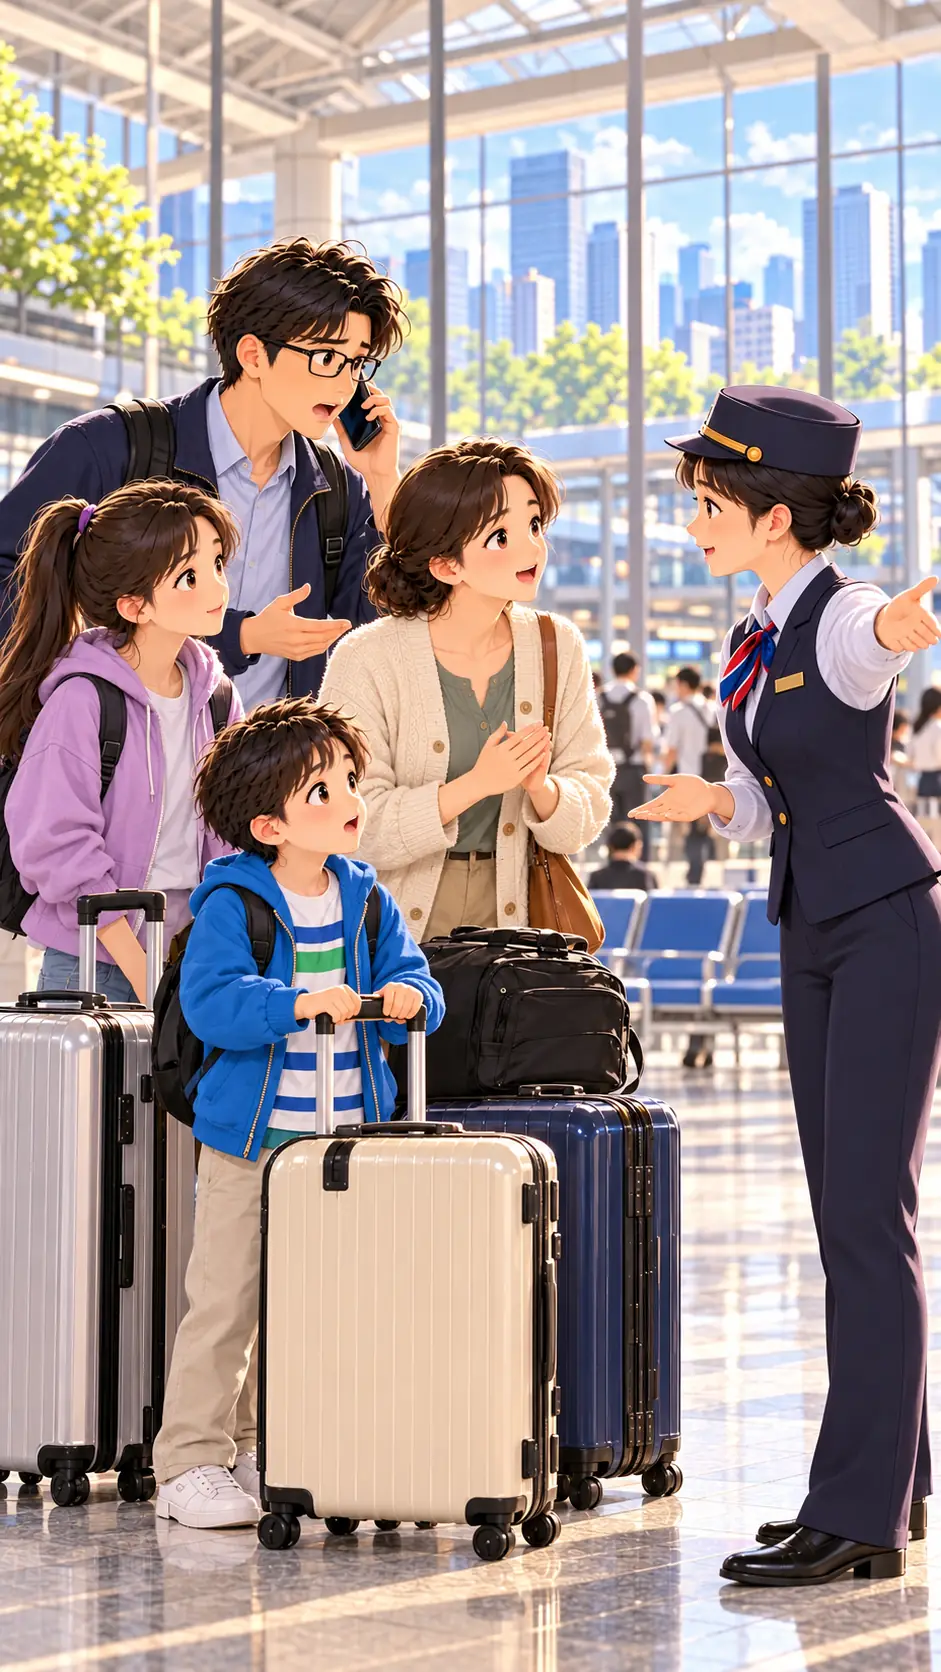
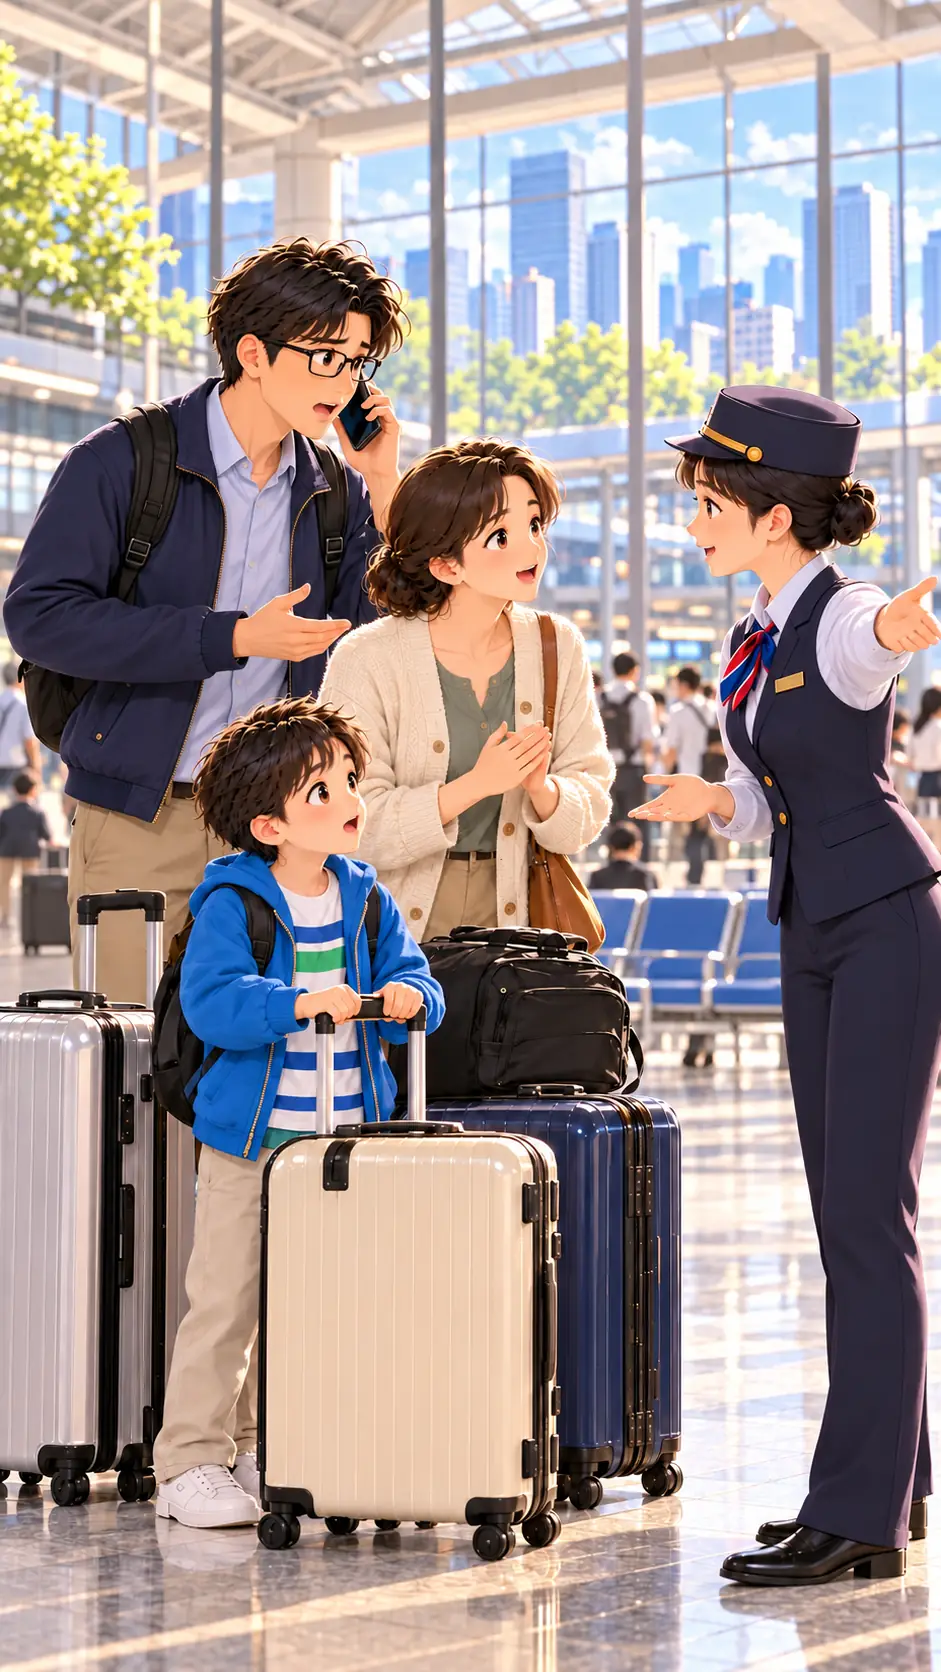
Enforce exact SC007 production cast and refresh image-bound mouth anchors

diff --git a/docs/dialogue_naturalization/STANDARD_TR.md b/docs/dialogue_naturalization/STANDARD_TR.md
@@ -95,4 +95,7 @@ SC005 güncellemesi: 6/300 metin revizyonu, 5/300 görselde adla ağız kalibras
 SC006 güncellemesi: 7/300 metin revizyonu, 6/300 görselde adla ağız kalibrasyonu. Şehir ilk görüş, eski arkadaşları özleme ve aile desteği doğal tepki zinciriyle yazıldı; SC005 oyuncak ve SC007 istasyon sürekliliği korundu. SC005 ses işi 37680079039 çalışmaya devam ediyor, SC006 ses metni sonraki mevcut hat paketinde üretilecek. Cihazda balon zamanlaması/dinleme henüz doğrulanmadı. APK başlatılmadı. Sıradaki: HSK1 SC007.
 
 
-SC007 güncellemesi: 8/300 metin revizyonu, 7/300 görselde adla ağız kalibrasyonu. İstasyon/nakliye telefon konuşması, gecikme, adres gönderme ve ailece taksi planı doğal tepki zinciriyle yazıldı. SC008 Li Chen karşılaşması ve SC009 adres sorunu önceden çözülmedi. Yutong konuşmayan refakatçi olarak görselde korundu. SC005 ses işi 37680079039 çalışıyor; SC006–SC007 sonraki mevcut hat paketinde üretilecek. Cihazda balon zamanlaması/dinleme henüz doğrulanmadı. APK başlatılmadı. Sıradaki: HSK1 SC008.
+SC007 güncellemesi: 8/300 metin revizyonu, 7/300 görselde adla ağız kalibrasyonu. İstasyon/nakliye telefon konuşması, gecikme, adres gönderme ve ailece taksi planı doğal tepki zinciriyle yazıldı. SC008 Li Chen karşılaşması ve SC009 adres sorunu önceden çözülmedi. SC007 ana kadrosu yalnızca production.characters içindeki dört kişidir. SC005 ses işi 37680079039 çalışıyor; SC006–SC007 sonraki mevcut hat paketinde üretilecek. Cihazda balon zamanlaması/dinleme henüz doğrulanmadı. APK başlatılmadı. Sıradaki: HSK1 SC008.
+
+
+SC007 R2 kast düzeltmesi: CHARACTER_CAST_LOCK_TR, sahne kadrosu dışında aile üyesi eklenmesini bloklar. Önceki görselde eklenmiş Yutong kaldırıldı; app/runtime WebP, metadata ve görsele bağlı dört adlandırılmış ağız yeniden hash eşleşmesiyle doğrulandı. Diyalog metni/ID ve ses düzeni değiştirilmedi. SC008 Li Chen kanonik tabanı (gözlük, kömür rengi ceket, sıcak renkli polo) incelendi; sahne işlemesi sıradadır. APK başlatılmadı.
